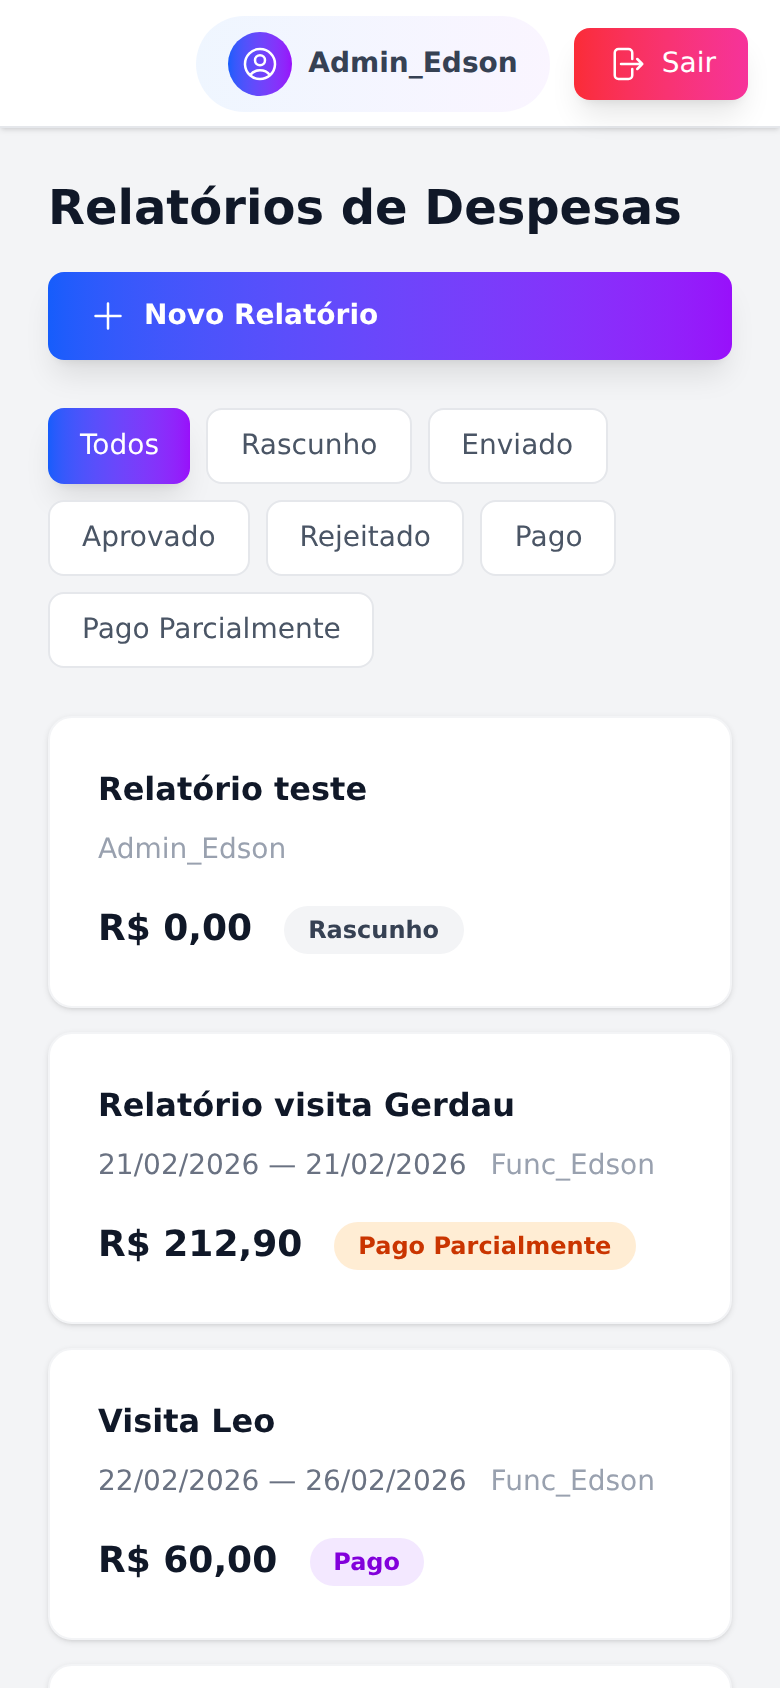
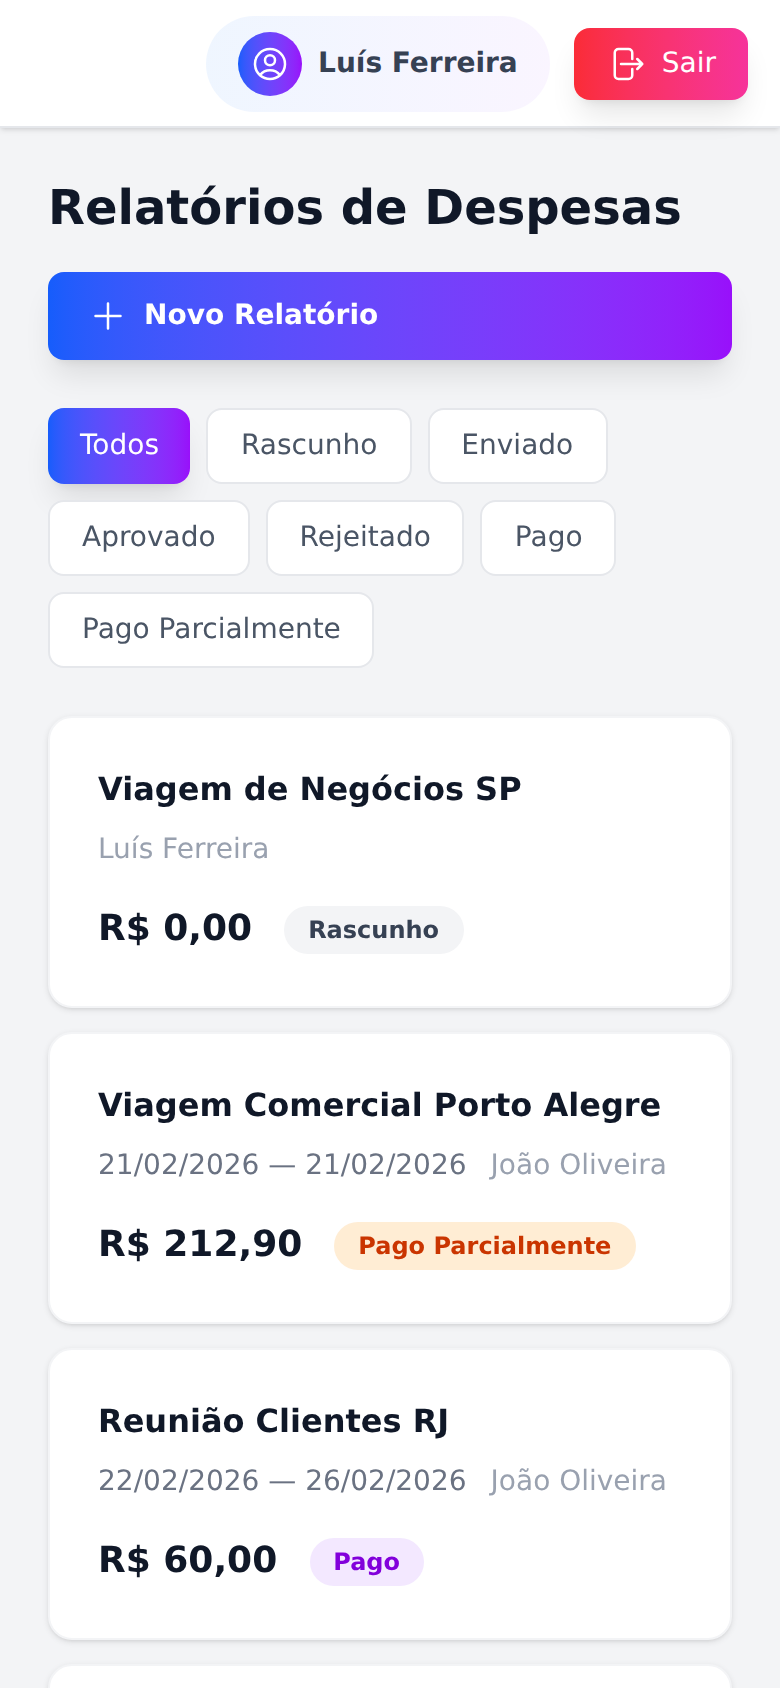
Anonymize usernames in screenshots and improve carousel UX with nav buttons

diff --git a/www/reembolsa.html b/www/reembolsa.html
@@ -39,14 +39,20 @@
             .gp-free-label { font-size: 12px; color: #5f6368; }
 
             /* Screenshot carousel */
-            .gp-carousel-section { background: #fff; padding: 24px 48px; border-bottom: 1px solid #e8eaed; }
-            .gp-carousel-title { font-size: 18px; font-weight: 600; color: #202124; margin-bottom: 16px; }
-            .gp-carousel { display: flex; gap: 12px; overflow-x: auto; padding-bottom: 12px; scroll-snap-type: x mandatory; }
-            .gp-carousel::-webkit-scrollbar { height: 4px; }
-            .gp-carousel::-webkit-scrollbar-thumb { background: #dadce0; border-radius: 4px; }
+            .gp-carousel-section { background: #fff; padding: 24px 0; border-bottom: 1px solid #e8eaed; position: relative; }
+            .gp-carousel-header { padding: 0 24px; display: flex; align-items: center; justify-content: space-between; margin-bottom: 16px; }
+            .gp-carousel-title { font-size: 18px; font-weight: 600; color: #202124; }
+            .gp-carousel-nav { display: flex; gap: 8px; }
+            .gp-carousel-btn { width: 36px; height: 36px; border-radius: 50%; border: 1px solid #dadce0; background: #fff; cursor: pointer; display: flex; align-items: center; justify-content: center; color: #5f6368; font-size: 16px; transition: background .15s, box-shadow .15s; }
+            .gp-carousel-btn:hover { background: #f1f3f4; box-shadow: 0 2px 6px rgba(0,0,0,0.12); color: #202124; }
+            .gp-carousel { display: flex; gap: 16px; overflow-x: auto; padding: 4px 24px 16px; scroll-snap-type: x mandatory; scroll-behavior: smooth; -webkit-overflow-scrolling: touch; }
+            .gp-carousel::-webkit-scrollbar { height: 6px; }
+            .gp-carousel::-webkit-scrollbar-track { background: #f1f3f4; border-radius: 3px; }
+            .gp-carousel::-webkit-scrollbar-thumb { background: #bdc1c6; border-radius: 3px; }
+            .gp-carousel::-webkit-scrollbar-thumb:hover { background: #80868b; }
             .gp-screenshot-wrap { flex-shrink: 0; scroll-snap-align: start; }
             .gp-screenshot-wrap img { border-radius: 12px; border: 1px solid #e8eaed; display: block; box-shadow: 0 2px 8px rgba(0,0,0,0.10); }
-            .gp-screenshot-wrap .caption { font-size: 11px; color: #5f6368; text-align: center; margin-top: 6px; }
+            .gp-screenshot-wrap .caption { font-size: 11px; color: #5f6368; text-align: center; margin-top: 8px; }
             /* Mobile phone frame */
             .phone-frame { background: #111; border-radius: 32px; padding: 10px; display: inline-block; box-shadow: 0 8px 24px rgba(0,0,0,0.25); }
             .phone-frame img { border-radius: 24px; display: block; }
@@ -104,7 +110,10 @@
             @media (max-width: 900px) {
                 .gp-hero { flex-direction: column; padding: 24px; }
                 .gp-cta { align-items: flex-start; }
-                .gp-carousel-section, .gp-about, .gp-features, .gp-plans { padding: 20px 16px; }
+                .gp-carousel-section { padding: 20px 0; }
+                .gp-carousel-header { padding: 0 16px; }
+                .gp-carousel { padding: 4px 16px 16px; }
+                .gp-about, .gp-features, .gp-plans { padding: 20px 16px; }
                 .gp-how-works { flex-direction: column; }
                 .gp-feature-grid { grid-template-columns: 1fr 1fr; }
                 .gp-plan-grid { flex-direction: column; }
@@ -168,41 +177,47 @@
 
     <!-- Screenshot Carousel -->
     <div class="gp-carousel-section">
-        <div class="gp-carousel-title">Screenshots</div>
-        <div class="gp-carousel">
+        <div class="gp-carousel-header">
+            <div class="gp-carousel-title">Screenshots</div>
+            <div class="gp-carousel-nav">
+                <button class="gp-carousel-btn" id="carousel-prev" aria-label="Anterior" onclick="document.getElementById('gp-carousel').scrollBy({left:-420,behavior:'smooth'})">&#8592;</button>
+                <button class="gp-carousel-btn" id="carousel-next" aria-label="Próximo" onclick="document.getElementById('gp-carousel').scrollBy({left:420,behavior:'smooth'})">&#8594;</button>
+            </div>
+        </div>
+        <div class="gp-carousel" id="gp-carousel">
             <!-- Desktop screenshots -->
             <div class="gp-screenshot-wrap">
-                <img src="img/reembolsa-dashboard.png" alt="Dashboard de relatórios" style="height:280px;width:auto;">
+                <img src="img/reembolsa-dashboard.png" alt="Dashboard de relatórios" style="height:290px;width:auto;">
                 <div class="caption">Dashboard</div>
             </div>
             <div class="gp-screenshot-wrap">
-                <img src="img/reembolsa-reports.png" alt="Lista de relatórios" style="height:280px;width:auto;">
+                <img src="img/reembolsa-reports.png" alt="Lista de relatórios" style="height:290px;width:auto;">
                 <div class="caption">Relatórios</div>
             </div>
             <div class="gp-screenshot-wrap">
-                <img src="img/reembolsa-new-expense.png" alt="Nova despesa" style="height:280px;width:auto;">
+                <img src="img/reembolsa-new-expense.png" alt="Nova despesa" style="height:290px;width:auto;">
                 <div class="caption">Nova Despesa</div>
             </div>
             <div class="gp-screenshot-wrap">
-                <img src="img/reembolsa-categories.png" alt="Categorias" style="height:280px;width:auto;">
+                <img src="img/reembolsa-categories.png" alt="Categorias" style="height:290px;width:auto;">
                 <div class="caption">Categorias</div>
             </div>
             <!-- Mobile screenshots in phone frame -->
             <div class="gp-screenshot-wrap">
                 <div class="phone-frame">
-                    <img src="img/reembolsa-dashboard-mobile.png" alt="Dashboard mobile" style="height:260px;width:auto;">
+                    <img src="img/reembolsa-dashboard-mobile.png" alt="Dashboard mobile" style="height:270px;width:auto;">
                 </div>
                 <div class="caption">Dashboard · Mobile</div>
             </div>
             <div class="gp-screenshot-wrap">
                 <div class="phone-frame">
-                    <img src="img/reembolsa-reports-mobile.png" alt="Relatórios mobile" style="height:260px;width:auto;">
+                    <img src="img/reembolsa-reports-mobile.png" alt="Relatórios mobile" style="height:270px;width:auto;">
                 </div>
                 <div class="caption">Relatórios · Mobile</div>
             </div>
             <div class="gp-screenshot-wrap">
                 <div class="phone-frame">
-                    <img src="img/reembolsa-new-expense-mobile.png" alt="Nova despesa mobile" style="height:260px;width:auto;">
+                    <img src="img/reembolsa-new-expense-mobile.png" alt="Nova despesa mobile" style="height:270px;width:auto;">
                 </div>
                 <div class="caption">Nova Despesa · Mobile</div>
             </div>
